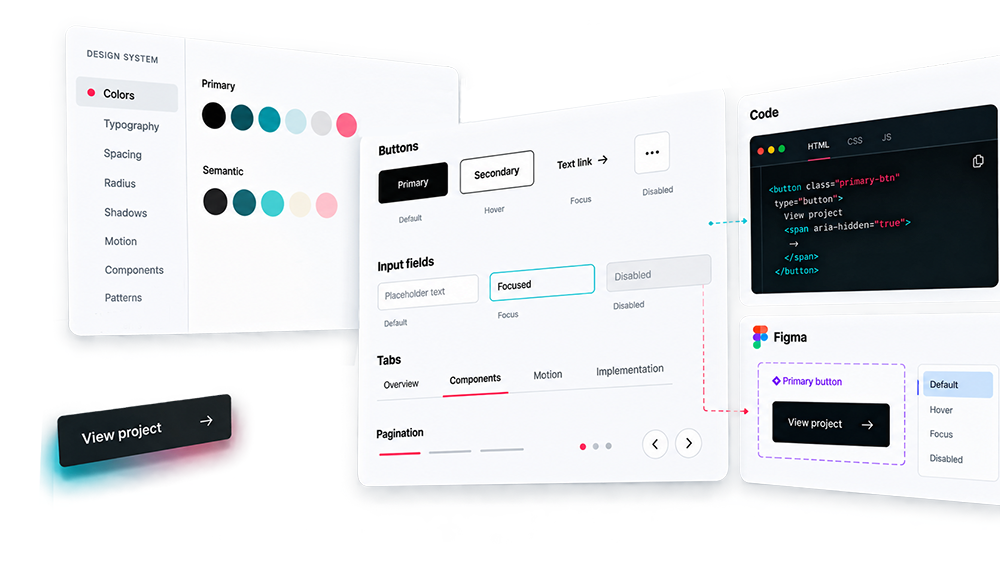
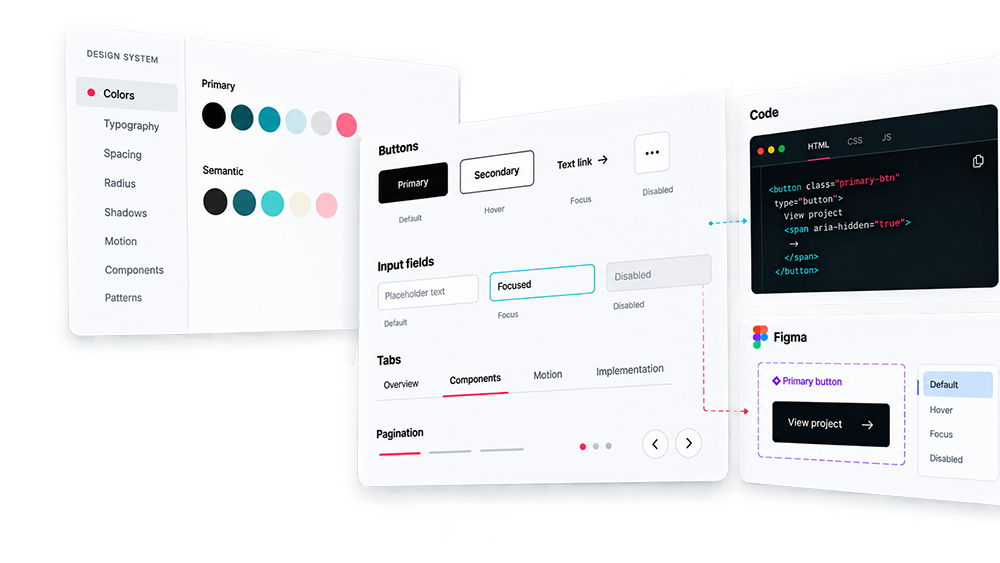
Update Slide 02 copy and hero image

Changed region(s): [[0.031, 0.6945, 0.248, 0.8757]]

diff --git a/index.html b/index.html
@@ -218,14 +218,17 @@
                 <div class="intro-copy">
                     <h1 class="intro-title"><span class="stack-group"><span class="stack">DESIGN</span></span><span class="accent-stack">systems</span></h1>
                     <p class="intro-description">I design and develop framework-agnostic components, patterns, and motion systems that power consistent interfaces.</p>
-                    <div class="intro-buttons"><a class="primary-btn intro" href="./design-system/ui-kit.html">Test UI Kit</a><a class="intro-link" href="./design-inspector/coming-soon.html">Design Inspector &#8594;</a></div>
+                    <div class="intro-buttons">
+                        <a class="primary-btn intro" href="./design-system/ui-kit.html">Test UI Kit</a>
+                        <!--<a class="intro-link" href="./design-inspector/coming-soon.html">Design Inspector &#8594;</a>-->
+                    </div>
                 </div>
             </div>
             <div class="intro-middle" role="group" aria-roledescription="slide" aria-label="3 of 3" id="intro-slide-3" data-hero-slide hidden>
                 <div class="intro-copy">
-                    <h1 class="intro-title"><span class="stack-group"><span class="stack">CROSS-PLATFORM</span></span><span class="accent-stack">alignment</span></h1>
-                    <p class="intro-description">I create consistent experiences across web, mobile, and connected devices through reusable interface patterns and design systems.</p>
-                    <div class="intro-buttons"><a class="primary-btn intro" href="method.html">How I collaborate</a></div>
+                    <h1 class="intro-title"><span class="stack-group"><span class="stack">DESIGN TO CODE</span></span><span class="accent-stack">alignment</span></h1>
+                    <p class="intro-description">I explore how AI-assisted software can help teams inspect, prototype, and refine interfaces—turning design decisions into actionable development workflows.</p>
+                    <div class="intro-buttons"><a class="primary-btn intro" href="design-inspector/coming-soon.html">Design Inspector</a></div>
                 </div>
                 <div class="hero-visual hero-visual--project hero-visual--amr"><img src="assets/work/allin/amr-project-hero.webp" alt="AMR Resorts digital guest experience" width="900" height="600" decoding="async"></div>
             </div>
